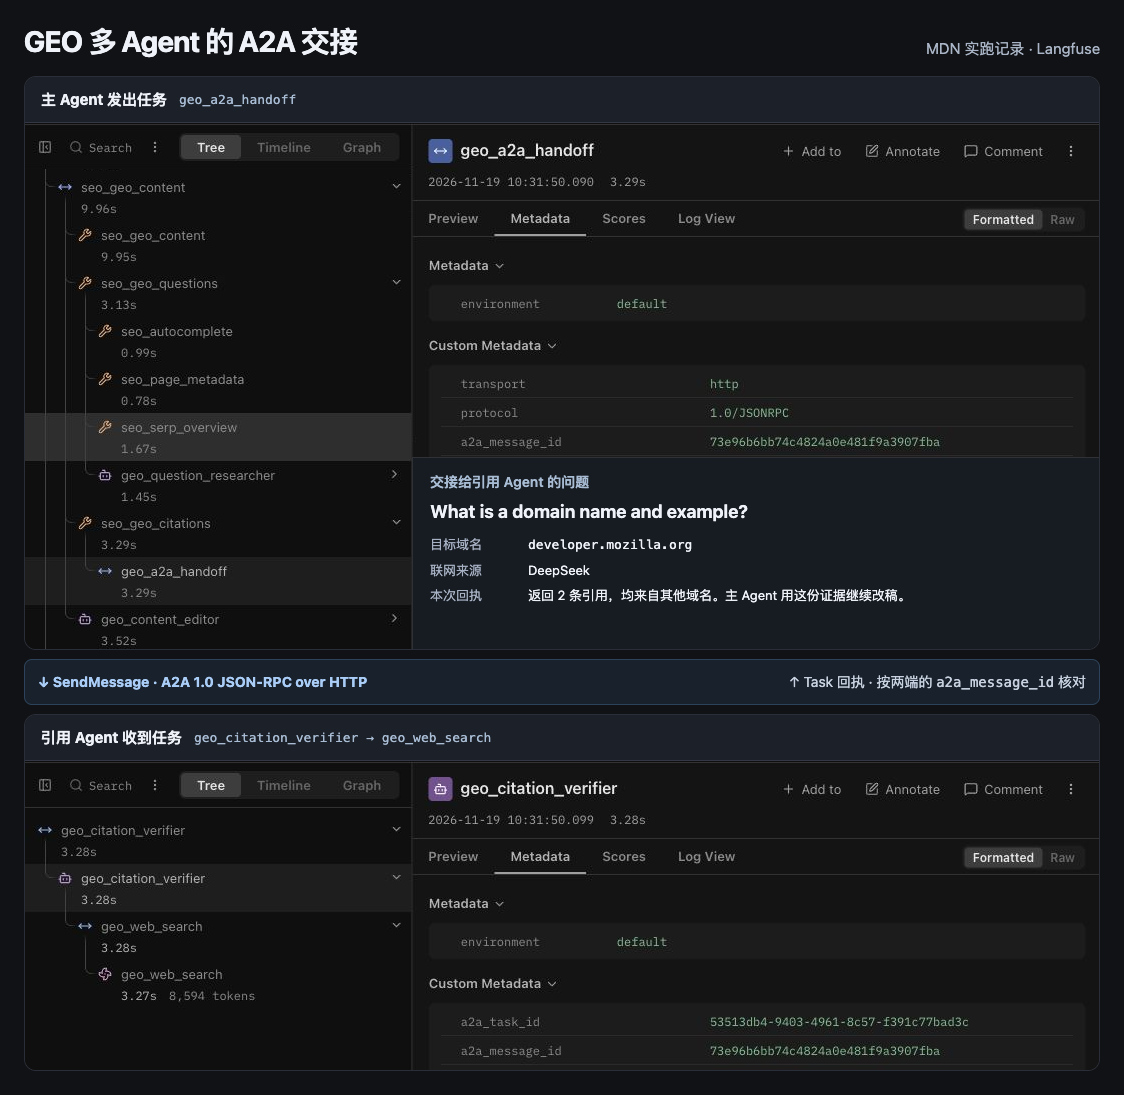
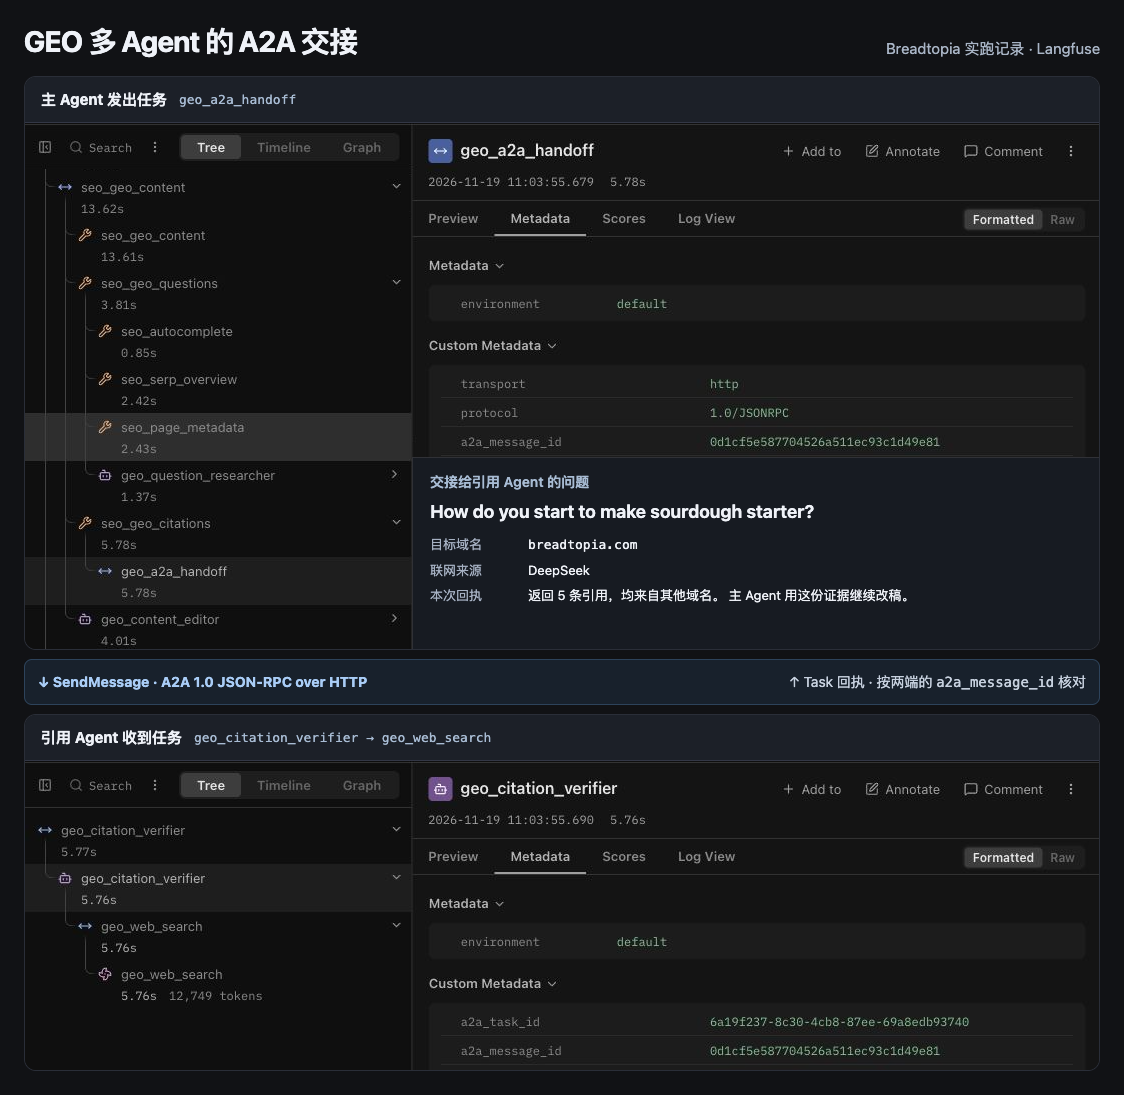
docs: update GEO demo

diff --git a/README.md b/README.md
@@ -16,7 +16,7 @@ flowchart TD
     Read --> Pause --> Choice --> Resume --> Draft
 ```
 
-[首页体检](docs/screenshots/19-homepage-priority.png) · [关键词机会](docs/screenshots/04-keyword-opportunities.png) · [已有排名页优化](docs/screenshots/05-ranking-pages.png) · [Semrush 竞品分析演示](docs/screenshots/20-semrush-competition.png) · [MDN GEO 实跑](#geo-多-agent) · [完整对话截图](docs/screenshots/README.md) · [本地启动](#本地启动)
+[首页体检](docs/screenshots/19-homepage-priority.png) · [关键词机会](docs/screenshots/04-keyword-opportunities.png) · [已有排名页优化](docs/screenshots/05-ranking-pages.png) · [Semrush 竞品分析演示](docs/screenshots/20-semrush-competition.png) · [Breadtopia GEO 实跑](#geo-多-agent) · [完整对话截图](docs/screenshots/README.md) · [本地启动](#本地启动)
 
 ## Agent 如何运行
 
@@ -155,16 +155,16 @@ DeepSeek 根据页面内容和用户要求选取主体及构图。代码校验 J
 
 ### GEO 多 Agent
 
-> 围绕 domain name，给 MDN 的域名介绍页做一次 GEO 分析。先找 Google 上实际出现的问题，选一个，查 DeepSeek 这次引用了谁，再给有依据的改稿建议。
+> 围绕 how to make sourdough starter，给 Breadtopia 的酸种酵头教程做一次 GEO 分析。从 Google 上实际出现的问题里选一个，核对 DeepSeek 这次引用了谁，再按页面正文给出改稿建议。
 
-这次在 MDN 的域名介绍页查到 4 条 Google 相关问题，选出 **What is a domain name and example?** 核验。DeepSeek 这次返回的 2 条引用均来自 Microsoft Learn。内容编辑结合页面摘要和引用证据给出 2 条改稿建议。
+本次选题保留 4 条 Google 相关问题和 1 条联想词，选中 **How do you start to make sourdough starter?**。DeepSeek 返回 5 条引用，均来自其他域名。内容编辑结合页面原文和引用证据给出 3 条改稿草稿。[目标页面](https://breadtopia.com/how-to-make-a-sourdough-starter/)
 
 <details>
-<summary>查看 MDN 实跑的完整对话和 A2A 交接</summary>
+<summary>查看 Breadtopia 实跑的完整对话和 A2A 交接</summary>
 
-对话图从同一个 Run 重放，保留原始提问、完整回复和证据卡片。
+对话图从同一个 Run 重放，保留原始提问、完整回复和证据卡片。本次演示用 `AGENT_CONTEXT_CHARACTER_LIMIT=80000`，让主 Agent 整理结论时保留完整取数结果。
 
-![MDN GEO 的原始提问、问题词、引用结果与改稿建议](docs/screenshots/22-geo-mdn-conversation.png)
+![Breadtopia GEO 的原始提问、选题、引用结果与改稿建议](docs/screenshots/22-geo-breadtopia-conversation.png)
 
 链路图上下展示两条实际的 Langfuse Trace。主 Agent 通过 HTTP 发送 JSON-RPC 请求，引用 Agent 用同一个消息 ID 接收任务，并返回可核对的 Task 回执。
 

diff --git a/docs/screenshots/README.md b/docs/screenshots/README.md
@@ -1,6 +1,6 @@
 # 对话截图
 
-对话截图在前端重放已保存的运行记录。结果图保留用户提问、Agent 回复和对应证据，入口图展示如何发起问题。搜索现状和排名页优化使用 `python.org`，Semrush 使用演示站 `trailguide.example`，GEO 使用 MDN 域名介绍页，其余案例使用测试站 `test0922.guxiguxi.com`。
+对话截图在前端重放已保存的运行记录。结果图保留用户提问、Agent 回复和对应证据，入口图展示如何发起问题。搜索现状和排名页优化使用 `python.org`，Semrush 使用演示站 `trailguide.example`，GEO 使用 Breadtopia 的酸种酵头教程，其余案例使用测试站 `test0922.guxiguxi.com`。
 
 搜索查询采用美国市场。测试站点及部分主题词缺少的数据保留为未知。页面建议待人工确认。对话图遮住内部运行标识，Langfuse 图保留用于核对 A2A 交接的消息 ID 和 Task ID。
 
@@ -11,7 +11,7 @@
 | 首页体检 | [首页最值得先改的地方](19-homepage-priority.png)、[加做移动端性能检查](02-page-audit.png) | [site_audit.py](../../src/seo_agent/workflows/site_audit.py) |
 | 搜索现状 | [排名关键词与对应页面](03-search-diagnosis.png) | [search_diagnosis.py](../../src/seo_agent/workflows/search_diagnosis.py) |
 | Semrush 月度竞品分析 | [完整对话](20-semrush-competition.png)、[执行详情](21-semrush-workflow-details.png) | [semrush_competition.py](../../src/seo_agent/workflows/semrush_competition.py) |
-| GEO 选题、引用核验与改稿 | [MDN 完整对话](22-geo-mdn-conversation.png)、[Langfuse 的 A2A 交接](23-geo-langfuse-a2a.png) | [geo.py](../../src/seo_agent/workflows/geo.py) |
+| GEO 选题、引用核验与改稿 | [Breadtopia 完整对话](22-geo-breadtopia-conversation.png)、[Langfuse 的 A2A 交接](23-geo-langfuse-a2a.png) | [geo.py](../../src/seo_agent/workflows/geo.py) |
 | 关键词机会 | [候选词与未知指标](04-keyword-opportunities.png) | [keyword_opportunity.py](../../src/seo_agent/workflows/keyword_opportunity.py) |
 | 已有排名页优化 | [排名样本与页面核验](05-ranking-pages.png) | [ranking_page_optimization.py](../../src/seo_agent/workflows/ranking_page_optimization.py) |
 | 综合诊断 | [汇总证据与覆盖范围](06-site-diagnosis.png) | [site_diagnosis.py](../../src/seo_agent/workflows/site_diagnosis.py) |
